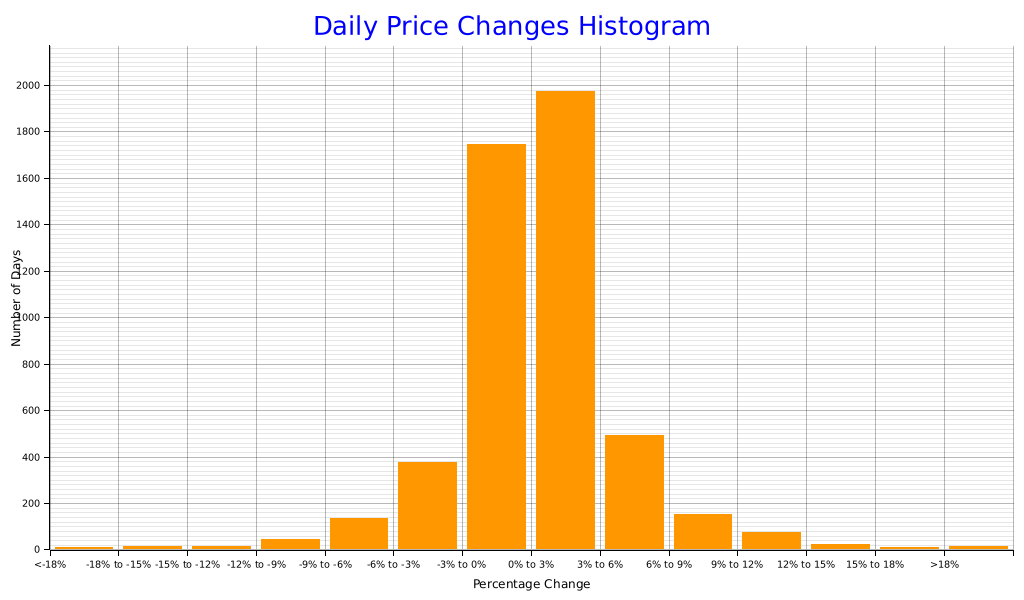
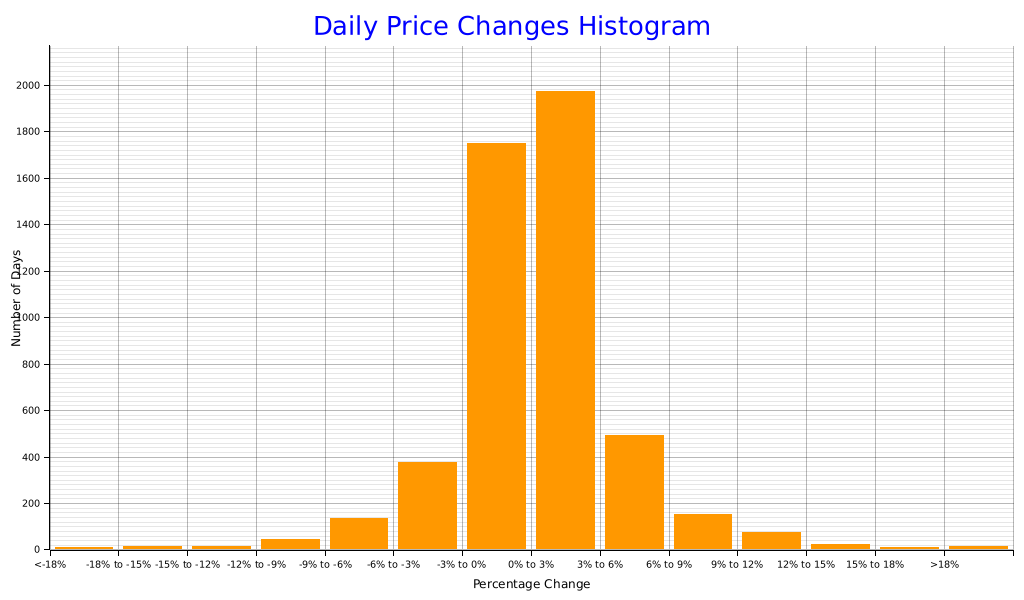
deploy: fbebbab4ab64577eb9c05b16167055638fc15f9a

diff --git a/index.html b/index.html
@@ -34,7 +34,7 @@
           <td>126,198.07</td>
           <td>74,436.67</td>
           <td></td>
-          <td>15,487,690,866,688.0</td>
+          <td>15,488,119,734,272.0</td>
         </tr>
         <tr>
           <td class='yearly-summary-year'>2024</td>
@@ -186,11 +186,11 @@
         </tr>
         <tr>
           <td>-3% to 0%</td>
-          <td>1747</td>
+          <td>1748</td>
         </tr>
         <tr>
           <td>0% to 3%</td>
-          <td>1973</td>
+          <td>1972</td>
         </tr>
         <tr>
           <td>3% to 6%</td>
@@ -227,7 +227,7 @@
     <br><br>
     <a href='https://github.com/bitcoin-tools/btracker'>Link to the report codebase</a>
     <br><br>
-    This report was last updated at 2025-10-27 20:54:35.061458518 UTC.
+    This report was last updated at 2025-10-27 21:19:05.188399461 UTC.
     <br><br>
     <div class='scrollable-table'>
       <table>
@@ -250,13 +250,13 @@
             <td>2025-10-27</td>
             <td>114,557.66</td>
             <td>116,035.78</td>
-            <td>114,557.66</td>
-            <td>114,683.53</td>
-            <td class='wma-column'>54,407.37</td>
-            <td>45.73 (0.08 %)</td>
-            <td>64,043.11 (126.4 %)</td>
-            <td>1,478.12 (1.2 %)</td>
-            <td>211.08 (0.1 %)</td>
+            <td>114,458.42</td>
+            <td>114,458.42</td>
+            <td class='wma-column'>54,407.21</td>
+            <td>45.57 (0.08 %)</td>
+            <td>63,818.00 (126.0 %)</td>
+            <td>1,577.36 (1.3 %)</td>
+            <td>-14.02 (0.0 %)</td>
           </tr>
           <tr>
             <td>2025-10-26</td>
